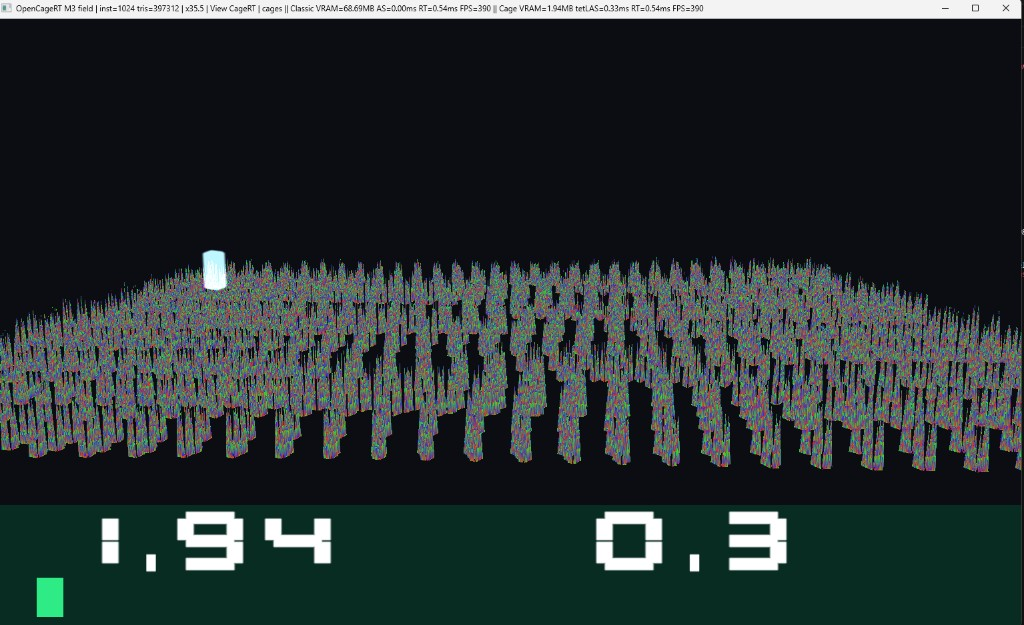
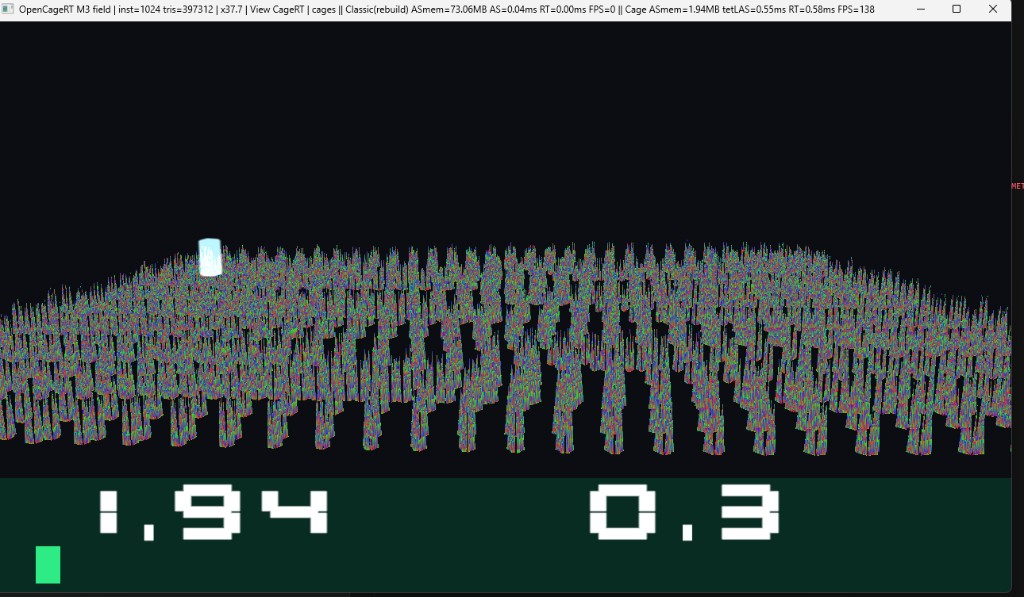
Record RTX 3090 Rebuild vs Update vs CageRT HUD numbers.
The 1024-plant row is the claim that survives a fair Classic refit: same 73 MB unique BLAS, 15 ms update vs 0.55 ms tetLAS and 1.94 MB shared μBLASes.

diff --git a/README.md b/README.md
@@ -23,45 +23,70 @@ Interactive captures are not the published method. Clone, build, then:
 
 Classic unique BLAS is skipped above 4096 instances (TDR risk). 25k is CageRT-only.
 
-## Measured on RTX 3090 (Classic Rebuild, previous interactive capture)
+## Measured on RTX 3090
 
-These rows predate Classic Update and the CSV harness. Re-run `--benchmark` for the three-column table.
+Solo views, same scene, GPU timestamps from the HUD. Cage overlay (`G`) was on, so CageRT RT/FPS are slightly pessimistic. Tracked RT memory includes the Classic staging+DEFAULT vertex buffers.
 
-| Mode            | Instances | Tracked RT mem | AS update | RT | FPS (solo) |
-|-----------------|----------:|---------------:|----------:|---:|-----------:|
-| Classic Rebuild | 64 | 4.50 MB | 9 ms | *combined split* | — |
-| CageRT | 64 | 0.69 MB | 0.1 ms | *combined split* | — |
-| Classic Rebuild | 1024 | **68.69 MB** | **150 ms** | *combined split* | ~6 |
-| CageRT | 1024 | **1.94 MB** | **0.3 ms** | *combined split* | **390** |
-| CageRT | 25000 | **34.56 MB** | **11.6 ms** | 1.0 ms | **30** |
+`--parity` passed on this machine. `--benchmark` CSV (warmup 60 / 240 frames) is still the formal reproduce path; these rows are the interactive three-column capture.
 
-Target table after `--benchmark` (fill from `results.csv`):
+### 1024 plants (flagship)
 
-| Mode            | AS memory | AS update | RT | FPS |
-|-----------------|----------:|----------:|---:|----:|
-| Classic Rebuild | measured | measured | measured | measured |
-| Classic Update  | measured | measured | measured | measured |
-| CageRT          | measured | measured | measured | measured |
+| Mode            | Tracked RT mem | AS update | RT | FPS |
+|-----------------|---------------:|----------:|---:|----:|
+| Classic Rebuild | 73.06 MB | **150.6 ms** | 0.10 ms | 6 |
+| Classic Update  | 73.06 MB | **14.8 ms** | 0.10 ms | 33 |
+| CageRT          | **1.94 MB** | **0.55 ms** | 0.58 ms | **138** |
 
-Split 64 — same field, memory bars:
+Even against DXR refit, CageRT is **×38** less tracked RT memory and **×27** faster AS update.
 
-![Split 64](docs/screenshots/split-64.png)
+Classic Update 1024:
 
-Split 1024 — Classic Rebuild 68.69 MB vs CageRT 1.94 MB (**x35**):
+![Classic Update 1024](docs/screenshots/classic-update-1024.png)
 
-![Split 1024](docs/screenshots/split-1024.png)
+Classic Rebuild 1024:
 
-Classic solo 1024 (unique BLAS rebuild):
+![Classic Rebuild 1024](docs/screenshots/classic-rebuild-1024.png)
 
-![Classic 1024](docs/screenshots/classic-1024.png)
-
-CageRT solo 1024 (shared static μBLASes):
+CageRT 1024 (shared static μBLASes):
 
 ![CageRT 1024](docs/screenshots/cagert-1024.png)
+
+### Full ladder
+
+| Instances | Mode            | Tracked RT mem | AS update | FPS |
+|----------:|-----------------|---------------:|----------:|----:|
+| 64 | Classic Rebuild | 4.81 MB | 9.3 ms | 70 |
+| 64 | Classic Update | 4.81 MB | 2.0 ms | 141 |
+| 64 | CageRT | 0.69 MB | 0.4 ms | 124 |
+| 1024 | Classic Rebuild | 73.06 MB | 150.6 ms | 6 |
+| 1024 | Classic Update | 73.06 MB | 14.8 ms | 33 |
+| 1024 | CageRT | 1.94 MB | 0.55 ms | 138 |
+| 4096 | Classic Rebuild | 291.75 MB | 61.1 ms | 8 |
+| 4096 | Classic Update | 291.75 MB | 59.7 ms | 8 |
+| 4096 | CageRT | 6.12 MB | 0.36 ms | 154 |
+| 25000 | CageRT | 34.56 MB | 10.8 ms | 26 |
+
+4096 Classic unique BLAS is the last Classic rung (`kClassicUniqueBlasMax`). 25k is CageRT-only.
+
+Classic Update 4096 (292 MB / 60 ms / 8 FPS):
+
+![Classic Update 4096](docs/screenshots/classic-update-4096.png)
+
+CageRT 4096 (6.12 MB / 0.4 ms / 154 FPS):
+
+![CageRT 4096](docs/screenshots/cagert-4096.png)
 
 CageRT 25 000 plants (~9.7M triangles):
 
 ![CageRT 25k](docs/screenshots/cagert-25k.png)
+
+Split 64:
+
+![Split 64](docs/screenshots/split-64.png)
+
+Split 1024:
+
+![Split 1024](docs/screenshots/split-1024.png)
 
 ## Keys
 
